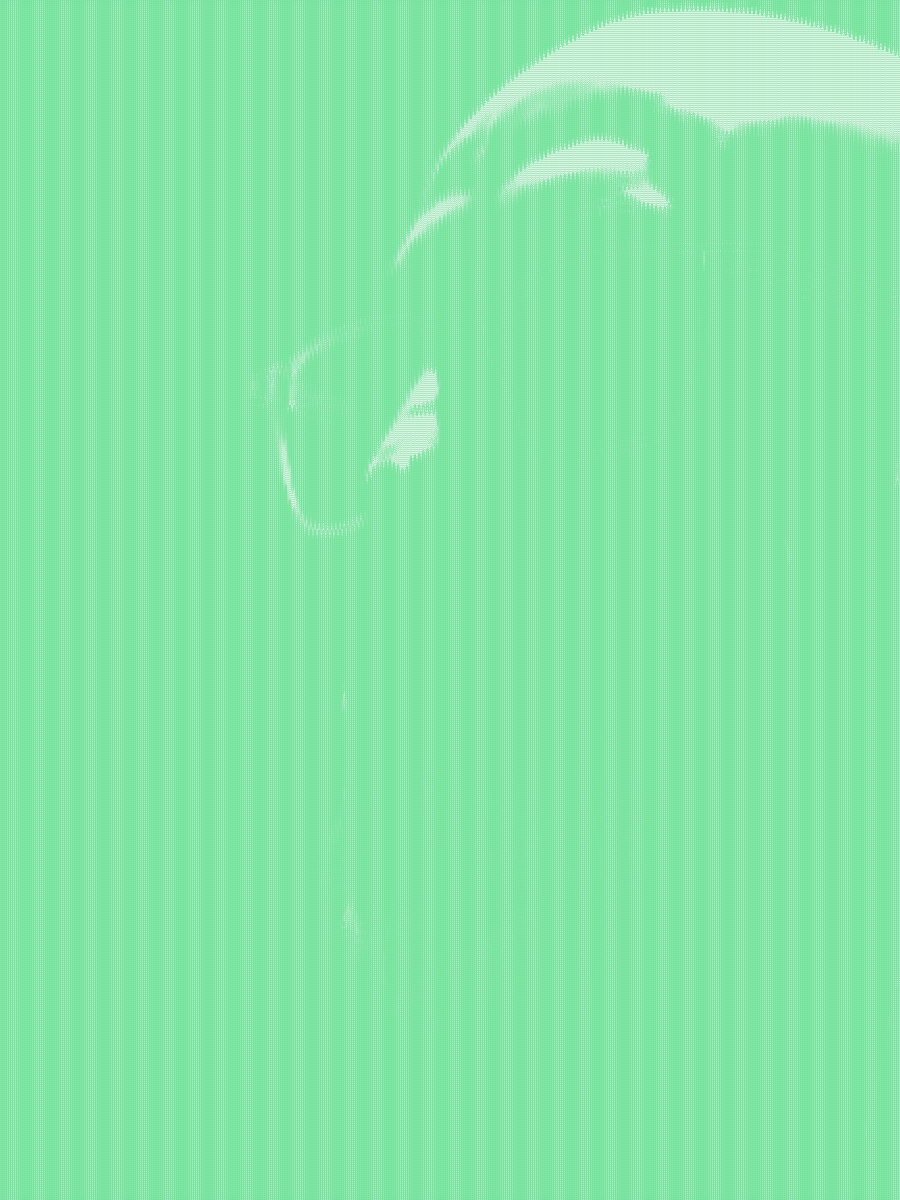
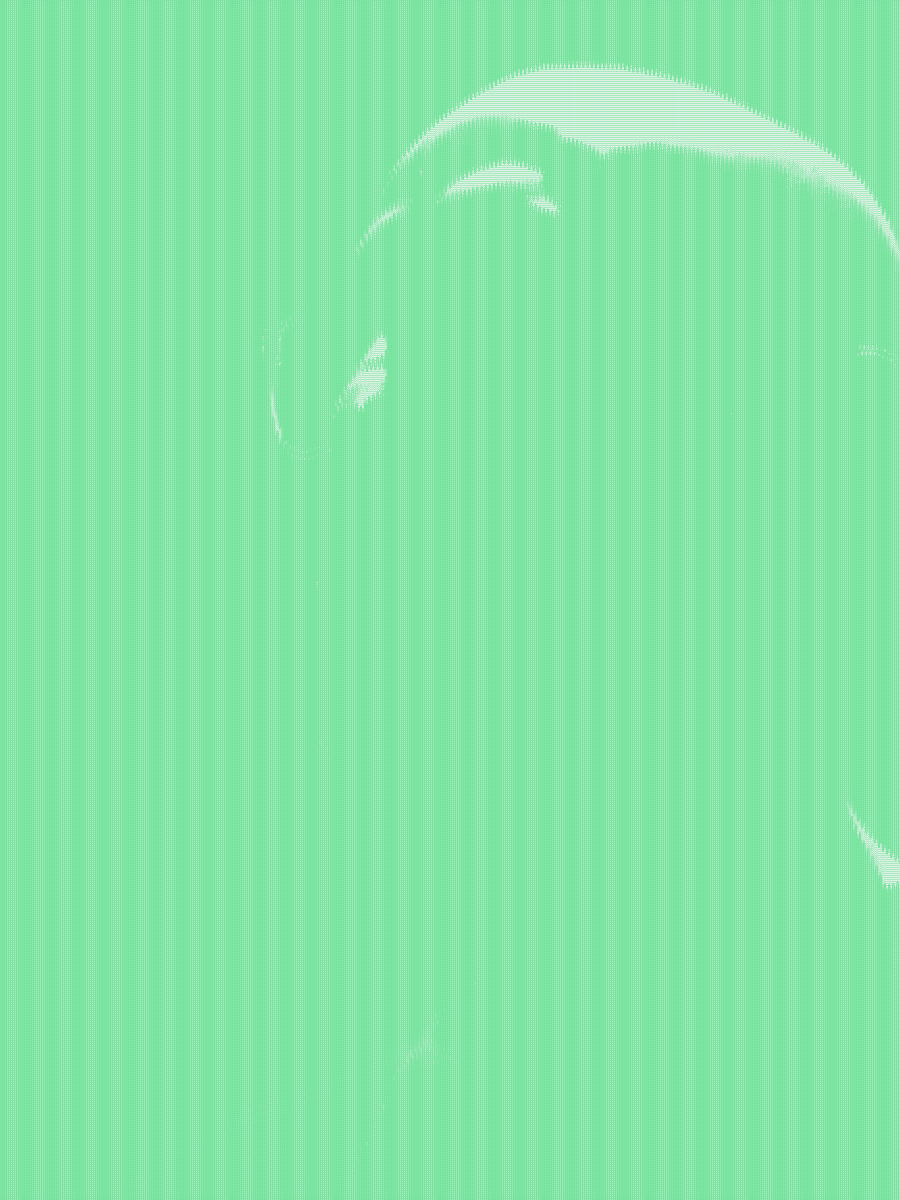
Retune Marcus Farrell portrait so the face reads in green
Widen the crop and ease the exposure so the official sine-wave
treatment keeps glasses and profile visible on the card.

diff --git a/scripts/export-portraits-client.ts b/scripts/export-portraits-client.ts
@@ -1,4 +1,3 @@
-import adamWhitcroft from "../src/assets/judges/adam-whitcroft.jpg";
 import marcusFarrell from "../src/assets/judges/marcus-farrell.jpg";
 import {
   DEFAULT_EFFECT_SETTINGS,
@@ -8,27 +7,14 @@ import {
 
 const jobs = [
   {
-    file: "adam-whitcroft-sinwave.png",
-    src: adamWhitcroft,
-    photoFit: "center 18%",
-    zoom: 1.35,
-    settings: {
-      ...DEFAULT_EFFECT_SETTINGS,
-      brightness: 2,
-      contrast: 1.85,
-      foregroundColor: "#a78bfa",
-      backgroundColor: "#efeaf5",
-    } satisfies EffectSettings,
-  },
-  {
     file: "marcus-farrell-sinwave.png",
     src: marcusFarrell,
-    photoFit: "42% 22%",
-    zoom: 1.5,
+    photoFit: "center 28%",
+    zoom: 1.12,
     settings: {
       ...DEFAULT_EFFECT_SETTINGS,
-      brightness: 18,
-      contrast: 1.5,
+      brightness: 8,
+      contrast: 1.9,
       foregroundColor: "#4ade80",
       backgroundColor: "#e6f2ea",
     } satisfies EffectSettings,
@@ -42,7 +28,7 @@ async function loadImage(src: string): Promise<HTMLImageElement> {
   return img;
 }
 
-async function exportOne(job: (typeof jobs)[number]): Promise<void> {
+for (const job of jobs) {
   const img = await loadImage(job.src);
   const canvas = document.createElement("canvas");
   renderSinePortrait(canvas, img, job.settings, job.photoFit, job.zoom);
@@ -55,9 +41,5 @@ async function exportOne(job: (typeof jobs)[number]): Promise<void> {
     body: blob,
   });
 }
-
-for (const job of jobs) {
-  await exportOne(job);
-}
 await fetch("/done", { method: "POST" });
-document.body.textContent = "Exported 2 portraits.";
+document.body.textContent = "Exported Marcus portrait.";
